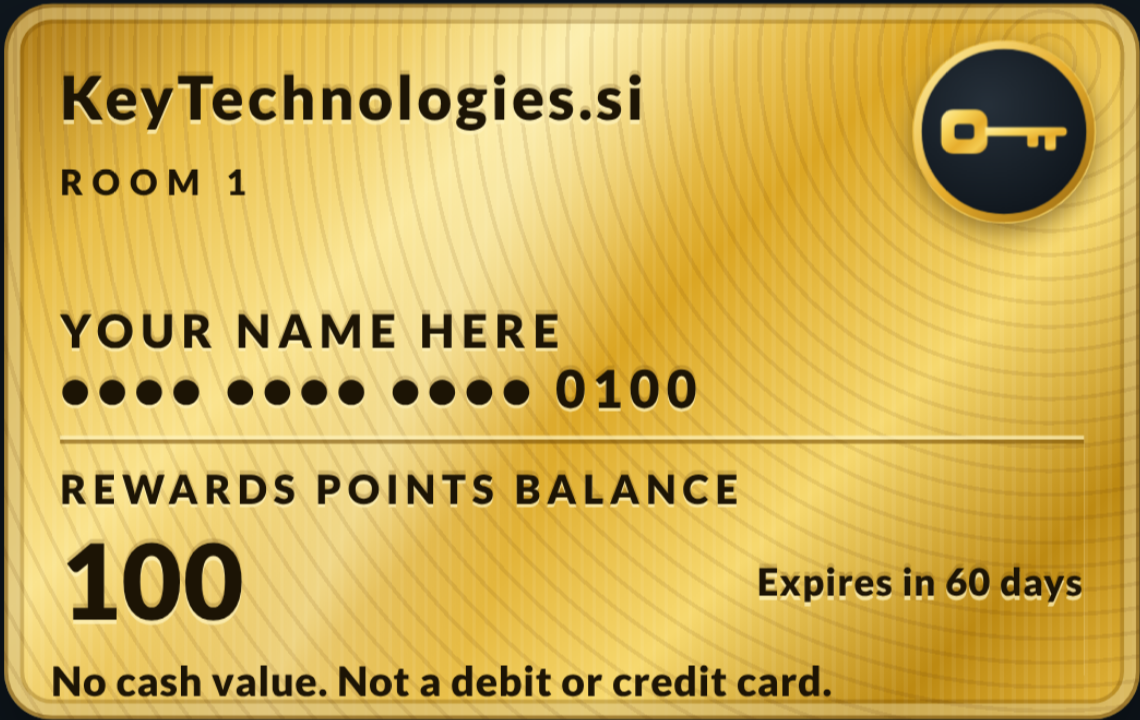
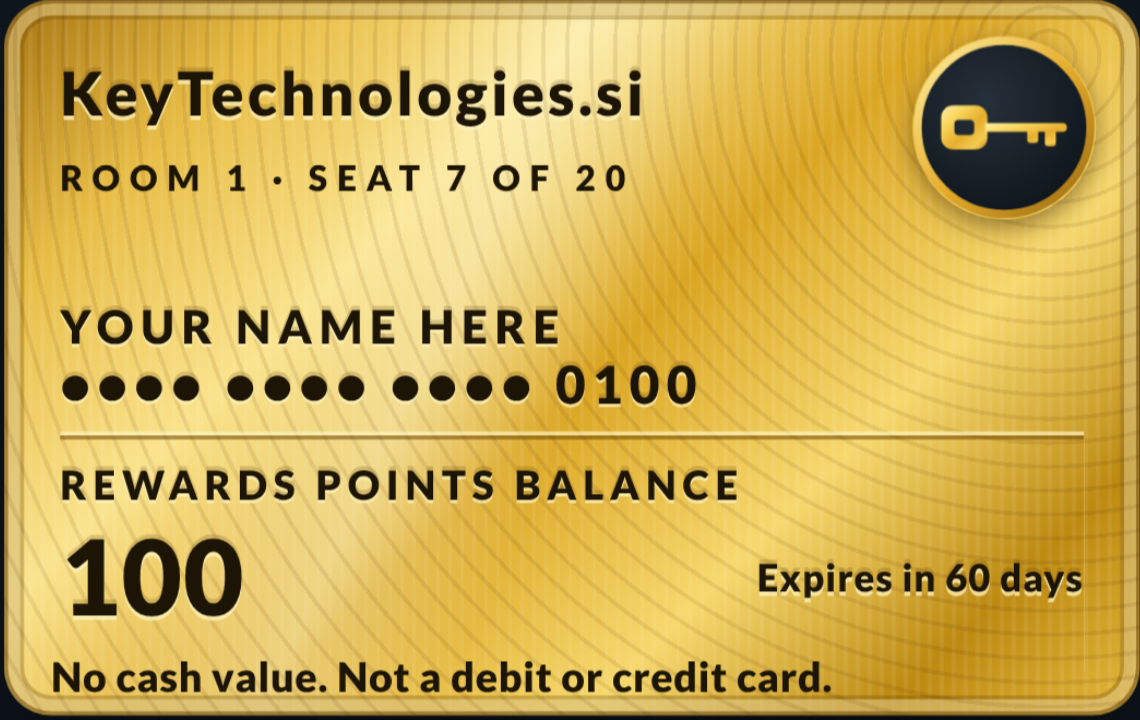
Card shows room and seat: Room N, Seat S of 20
Claude-Session: https://claude.ai/code/session_01C24s48QBeAMLS2iDpVHsTf

diff --git a/sites/key-technologies/key-rules.html b/sites/key-technologies/key-rules.html
@@ -26,13 +26,13 @@ h1{margin:0 0 8px;text-align:center;font-size:36px;line-height:1.12;font-weight:
 @media print{body{background:#fff;color:#000}.rule{background:#fff;border:1px solid #999;break-inside:avoid}.rule .n{background:#000;color:#fff}.btn,.brand{display:none}}
 </style>
 <script src="key-platform/kg-track.js"></script>
-<meta property="og:type" content="website"><meta property="og:site_name" content="Key Rewards"><meta property="og:title" content="The Rule Book | Key Rewards"><meta property="og:description" content="All the Key Rewards rules in one place, simple and numbered."><meta property="og:image" content="https://keytechnologies.si/brand/key-rewards-og.png"><meta property="og:image:width" content="1200"><meta property="og:image:height" content="630"><meta name="twitter:card" content="summary_large_image"><meta name="twitter:image" content="https://keytechnologies.si/brand/key-rewards-og.png"></head>
+</head>
 <body>
 <main class="wrap">
 <p class="brand">KeyTechnologies.si</p>
 <h1>The Rule Book</h1>
 <p class="lead">This is the game and this is how it flows. The rules are simple. This is all new to us too, so the rules can change at any time.</p>
-<section class="rule"><div class="n">1</div><div><h2>Who this is for</h2><p>Right now Key Rewards is for people who live in Las Vegas and have an Instagram account. We verify every member on Instagram before we give out keys. We are starting in Las Vegas, and we plan to open it up worldwide soon.</p></div></section><section class="rule"><div class="n">2</div><div><h2>The rooms</h2><p>There is Room 1, Room 2, Room 3, and so on, with no end. Every room holds exactly 20 people, no matter how many rooms there are. If you hear there are 80 rooms, that is 80 times 20, which is 1,600 people. Rooms only use numbers.</p></div></section><section class="rule"><div class="n">3</div><div><h2>Room 1</h2><p>Room 1 is the first 20 people. Everyone who already holds keys is in Room 1. 5 seats are taken, so 15 more seats are left.</p></div></section><section class="rule"><div class="n">4</div><div><h2>The keys</h2><p>The game starts with 10 million keys. The game is set up so more keys can be created, but right now we do not plan to. We will take a community vote and see where it goes. Votes are advisory. I am not keeping any of the starting keys for myself.</p></div></section><section class="rule"><div class="n">5</div><div><h2>How the keys flow</h2><p>I give Room 1 keys. Each person in Room 1 can choose to send a percentage of their wallet to Room 2, and it is shared evenly among everyone in Room 2. Each person in Room 2 can do the same for Room 3, Room 3 for Room 4, and so on. You choose the percentage, and you do not have to send any. When you open your wallet, it tells you which room you are in. I can also give keys directly to any room at any time. As keys are used, I give more keys to Room 1.</p></div></section><section class="rule"><div class="n">6</div><div><h2>Using your keys</h2><p>You can use your keys at any time: restaurants, gift cards, trading, experiences and more. Using them will not move you out of a room. It can move you up to a higher room. The more keys you use, the higher the rooms you can reach. If you are active, you move up. If you are not active, you move down.</p></div></section><section class="rule"><div class="n">7</div><div><h2>Moving rooms</h2><p>We can move you to any other room, whenever we want and for any reason. As more people enter, people are moved to other rooms. If you get moved, take it as a good thing: it means the community is getting bigger and stronger. Please do not take offense.</p></div></section><section class="rule"><div class="n">8</div><div><h2>Keys expire</h2><p>Keys are time sensitive. They are good for 60 days from the day they are issued, and keys you do not use disappear. A gift card for a friend or family member is good for 14 days. If you give keys to someone, they keep the same expiry date.</p></div></section><section class="rule"><div class="n">9</div><div><h2>Meeting up is optional</h2><p>You do not have to meet anyone to be part of Key Rewards or to use your keys at restaurants. If you want to, two people can meet in person and scan each other&rsquo;s one-time code. The code changes every time and works once. You both earn keys: 20 each for your first meet-up. You can only earn from meeting the same person once.</p></div></section><section class="rule"><div class="n">10</div><div><h2>Trading and giving</h2><p>Key Rewards is a game of trust: people trust each other, build relationships and make friendships, and the keys bring everybody together. Trading and giving keys to friends and family is optional. Only trade with people you trust. Never send or accept keys for money. We do not buy or sell keys, we never take cash, and we have no control over what members do between themselves.</p></div></section><section class="rule"><div class="n">11</div><div><h2>The marketplace</h2><p>Members can list their stuff, buy stuff and trade stuff. Think of it as a bartering system, paid in keys. Only members who hold keys can post on the marketplace. Post what you like and keep it clean. Anyone who posts something bad can be banned and lose all their keys. We may give keys for posting.</p></div></section><section class="rule"><div class="n">12</div><div><h2>Votes and ideas</h2><p>Keys can be used to vote on community ideas. Members with more keys get more votes, including me. Votes are advisory. Send us your ideas and comments. We read every one.</p></div></section><section class="rule"><div class="n">13</div><div><h2>Giveaways</h2><p>We are doing big giveaways. Our goal is to give away houses, cars and cash. These are goals, not promises yet. When we give away real prizes, the winners are picked with random number generator software, so it is fair.</p></div></section><section class="rule"><div class="n">14</div><div><h2>Your information</h2><p>We send you email updates and text messages about your keys. Reply STOP to a text or tap unsubscribe in an email and we stop. We use your address to confirm you live in Las Vegas. We never sell your data, and we keep it private and protected.</p></div></section><section class="rule"><div class="n">15</div><div><h2>Scam warning</h2><p>We will never ask you for money, cash, credit cards or any payment. Never. If anyone contacts you asking for money, it is a scam.</p></div></section><section class="rule"><div class="n">16</div><div><h2>The game can change</h2><p>This is a game, and it is all new to us too. We can change the rules at any time. We can change the game at any time. We can take keys away, ban anyone, move anyone and close the game at any time, for any reason. We will do our best to keep it going and build it out for the community.</p></div></section><section class="rule"><div class="n">17</div><div><h2>Who built it</h2><p>I built this software for the community, after 10 years of dedication to this channel. Key Technologies built the software and is not responsible for how keys are used by members or in the future. Keys have no cash value. Keys are not shares, ownership or an investment. This is not sponsored or run by Instagram.</p></div></section>
+<section class="rule"><div class="n">1</div><div><h2>Who this is for</h2><p>Right now Key Rewards is for people who live in Las Vegas and have an Instagram account. We verify every member on Instagram before we give out keys. We are starting in Las Vegas, and we plan to open it up worldwide soon.</p></div></section><section class="rule"><div class="n">2</div><div><h2>The rooms</h2><p>There is Room 1, Room 2, Room 3, and so on, with no end. Every room holds exactly 20 people, no matter how many rooms there are. Your wallet card shows your room and your seat, for example Room 15, Seat 20 of 20. If you hear there are 80 rooms, that is 80 times 20, which is 1,600 people. Rooms only use numbers.</p></div></section><section class="rule"><div class="n">3</div><div><h2>Room 1</h2><p>Room 1 is the first 20 people. Everyone who already holds keys is in Room 1. 5 seats are taken, so 15 more seats are left.</p></div></section><section class="rule"><div class="n">4</div><div><h2>The keys</h2><p>The game starts with 10 million keys. The game is set up so more keys can be created, but right now we do not plan to. We will take a community vote and see where it goes. Votes are advisory. I am not keeping any of the starting keys for myself.</p></div></section><section class="rule"><div class="n">5</div><div><h2>How the keys flow</h2><p>I give Room 1 keys. Each person in Room 1 can choose to send a percentage of their wallet to Room 2, and it is shared evenly among everyone in Room 2. Each person in Room 2 can do the same for Room 3, Room 3 for Room 4, and so on. You choose the percentage, and you do not have to send any. When you open your wallet, it tells you which room you are in. I can also give keys directly to any room at any time. As keys are used, I give more keys to Room 1.</p></div></section><section class="rule"><div class="n">6</div><div><h2>Using your keys</h2><p>You can use your keys at any time: restaurants, gift cards, trading, experiences and more. Using them will not move you out of a room. It can move you up to a higher room. The more keys you use, the higher the rooms you can reach. If you are active, you move up. If you are not active, you move down.</p></div></section><section class="rule"><div class="n">7</div><div><h2>Moving rooms</h2><p>We can move you to any other room, whenever we want and for any reason. As more people enter, people are moved to other rooms. If you get moved, take it as a good thing: it means the community is getting bigger and stronger. Please do not take offense.</p></div></section><section class="rule"><div class="n">8</div><div><h2>Keys expire</h2><p>Keys are time sensitive. They are good for 60 days from the day they are issued, and keys you do not use disappear. A gift card for a friend or family member is good for 14 days. If you give keys to someone, they keep the same expiry date.</p></div></section><section class="rule"><div class="n">9</div><div><h2>Meeting up is optional</h2><p>You do not have to meet anyone to be part of Key Rewards or to use your keys at restaurants. If you want to, two people can meet in person and scan each other&rsquo;s one-time code. The code changes every time and works once. You both earn keys: 20 each for your first meet-up. You can only earn from meeting the same person once.</p></div></section><section class="rule"><div class="n">10</div><div><h2>Trading and giving</h2><p>Key Rewards is a game of trust: people trust each other, build relationships and make friendships, and the keys bring everybody together. Trading and giving keys to friends and family is optional. Only trade with people you trust. Never send or accept keys for money. We do not buy or sell keys, we never take cash, and we have no control over what members do between themselves.</p></div></section><section class="rule"><div class="n">11</div><div><h2>The marketplace</h2><p>Members can list their stuff, buy stuff and trade stuff. Think of it as a bartering system, paid in keys. Only members who hold keys can post on the marketplace. Post what you like and keep it clean. Anyone who posts something bad can be banned and lose all their keys. We may give keys for posting.</p></div></section><section class="rule"><div class="n">12</div><div><h2>Votes and ideas</h2><p>Keys can be used to vote on community ideas. Members with more keys get more votes, including me. Votes are advisory. Send us your ideas and comments. We read every one.</p></div></section><section class="rule"><div class="n">13</div><div><h2>Giveaways</h2><p>We are doing big giveaways. Our goal is to give away houses, cars and cash. These are goals, not promises yet. When we give away real prizes, the winners are picked with random number generator software, so it is fair.</p></div></section><section class="rule"><div class="n">14</div><div><h2>Your information</h2><p>We send you email updates and text messages about your keys. Reply STOP to a text or tap unsubscribe in an email and we stop. We use your address to confirm you live in Las Vegas. We never sell your data, and we keep it private and protected.</p></div></section><section class="rule"><div class="n">15</div><div><h2>Scam warning</h2><p>We will never ask you for money, cash, credit cards or any payment. Never. If anyone contacts you asking for money, it is a scam.</p></div></section><section class="rule"><div class="n">16</div><div><h2>The game can change</h2><p>This is a game, and it is all new to us too. We can change the rules at any time. We can change the game at any time. We can take keys away, ban anyone, move anyone and close the game at any time, for any reason. We will do our best to keep it going and build it out for the community.</p></div></section><section class="rule"><div class="n">17</div><div><h2>Who built it</h2><p>I built this software for the community, after 10 years of dedication to this channel. Key Technologies built the software and is not responsible for how keys are used by members or in the future. Keys have no cash value. Keys are not shares, ownership or an investment. This is not sponsored or run by Instagram.</p></div></section>
 <a class="btn" href="key-waitlist.html" id="join">Join the waiting list</a>
 <a class="btn o" href="key-ideas.html">Share an idea</a>
 <p class="foot">From the team behind Las Vegas Restaurants. Updated November 23, 2026.</p>

diff --git a/sites/key-technologies/key-tour.html b/sites/key-technologies/key-tour.html
@@ -34,7 +34,7 @@ p{margin:0;font-size:21px;line-height:1.45}.sm{font-size:19px;color:rgba(255,255
 <body>
 <div class="top"><b>KeyTechnologies.si</b><a href="key-waitlist.html" id="skip">Skip to join</a></div>
 <main class="rail" id="rail"><section class="sl" id="s1" aria-label="Screen 1 of 11"><img class='key' src='brand/key-gold.svg' alt='A gold key'><h1>Free keys for <span class='b'>Las Vegas locals</span></h1><p>Our thank-you for 10 years of Las Vegas Restaurants. We are starting in Las Vegas and plan to open it worldwide soon. Swipe to see how it works.</p></section><section class="sl" id="s2" aria-label="Screen 2 of 11"><h2>What keys <span class="b">are for</span></h2><div class="uses c"></div></section><section class="sl" id="sm" aria-label="Screen 3 of 11"><h2>The key <span class="b">marketplace</span></h2><p>List your stuff. Buy stuff. Trade stuff. Think of it as a <b>bartering system</b>, paid in keys.</p><div class="tl t3"><div class="t"><svg viewBox="0 0 24 24" width="44" height="44" fill="none" stroke="#00a8e1" stroke-width="1.6" stroke-linecap="round" stroke-linejoin="round" aria-hidden="true"><path d="M12.586 2.586A2 2 0 0 0 11.172 2H4a2 2 0 0 0-2 2v7.172a2 2 0 0 0 .586 1.414l8.704 8.704a2.426 2.426 0 0 0 3.42 0l6.58-6.58a2.426 2.426 0 0 0 0-3.42z"/><circle cx="7.5" cy="7.5" r=".5" fill="currentColor"/></svg><b>List</b></div><div class="t"><svg viewBox="0 0 24 24" width="44" height="44" fill="none" stroke="#00a8e1" stroke-width="1.6" stroke-linecap="round" stroke-linejoin="round" aria-hidden="true"><path d="M6 2 3 6v14a2 2 0 0 0 2 2h14a2 2 0 0 0 2-2V6l-3-4Z"/><path d="M3 6h18"/><path d="M16 10a4 4 0 0 1-8 0"/></svg><b>Buy</b></div><div class="t"><svg viewBox="0 0 24 24" width="44" height="44" fill="none" stroke="#00a8e1" stroke-width="1.6" stroke-linecap="round" stroke-linejoin="round" aria-hidden="true"><path d="m16 3 4 4-4 4"/><path d="M20 7H4"/><path d="m8 21-4-4 4-4"/><path d="M4 17h16"/></svg><b>Trade</b></div></div><p class="sm">Only members who hold keys can post. Keep it clean. We do not buy or sell keys and we never take cash. We are still building it out.</p></section><section class="sl" id="s3" aria-label="Screen 4 of 11"><h2>Want to meet up? <span class="b">Optional.</span></h2><p><b>You do not have to meet anyone</b> to be part of Key Rewards or to use your keys at restaurants.</p><p>If you want to, two people can meet in person and scan each other&rsquo;s code. It changes every time and works once, so it proves you were face to face, and you both earn keys. First meet-up: <b>20 keys each</b>.</p><div class="ic"><svg viewBox="0 0 24 24" width="64" height="64" fill="none" stroke="#00a8e1" stroke-width="1.6" stroke-linecap="round" stroke-linejoin="round" aria-hidden="true"><path d="M16 21v-2a4 4 0 0 0-4-4H6a4 4 0 0 0-4 4v2"/><circle cx="9" cy="7" r="4"/><path d="M22 21v-2a4 4 0 0 0-3-3.87"/><path d="M16 3.13a4 4 0 0 1 0 7.75"/></svg></div><p class="sm">You can also network on Instagram, or just use your keys.</p>
-</section><section class="sl" id="st" aria-label="Screen 5 of 11"><h2>A game of <span class="b">trust</span></h2><div class="tl t3"><div class="t"><svg viewBox="0 0 24 24" width="44" height="44" fill="none" stroke="#00a8e1" stroke-width="1.6" stroke-linecap="round" stroke-linejoin="round" aria-hidden="true"><path d="M16 21v-2a4 4 0 0 0-4-4H6a4 4 0 0 0-4 4v2"/><circle cx="9" cy="7" r="4"/><path d="M22 21v-2a4 4 0 0 0-3-3.87"/><path d="M16 3.13a4 4 0 0 1 0 7.75"/></svg><b>Trust</b></div><div class="t"><svg viewBox="0 0 24 24" width="44" height="44" fill="none" stroke="#00a8e1" stroke-width="1.6" stroke-linecap="round" stroke-linejoin="round" aria-hidden="true"><path d="M7.9 20A9 9 0 1 0 4 16.1L2 22Z"/></svg><b>Bonds</b></div><div class="t"><svg viewBox="0 0 24 24" width="44" height="44" fill="none" stroke="#00a8e1" stroke-width="1.6" stroke-linecap="round" stroke-linejoin="round" aria-hidden="true"><path d="M19 14c1.49-1.46 3-3.21 3-5.5A5.5 5.5 0 0 0 16.5 3c-1.76 0-3 .5-4.5 2-1.5-1.5-2.74-2-4.5-2A5.5 5.5 0 0 0 2 8.5c0 2.3 1.5 4.05 3 5.5l7 7Z"/></svg><b>Friends</b></div></div><p>Keys bring everybody together. People trust each other, build relationships and make friends.</p><p class="sm">Only trade with people you trust. Meeting up is optional.</p></section><section class="sl" id="s4" aria-label="Screen 6 of 11"><h2>How it <span class='b'>spreads</span></h2><div class="hall c"></div><p><b>Room 1</b> is 20 Las Vegas locals with Instagram, verified by us. 5 seats are taken, 15 are left. <b>The first 20 will have to trust each other.</b></p><p class="sm">80 rooms = 80 &times; 20 = 1,600 people. We can move you to another room any time. Being moved is a good thing.</p></section><section class="sl" id="s5" aria-label="Screen 7 of 11"><h2>How the <span class="b">keys flow</span></h2><div class="chain"><span>10M</span><i>&rarr;</i><span>Room 1</span><i>&rarr;</i><span>2</span><i>&rarr;</i><span>3</span><i>&rarr;</i><span>&hellip;</span></div><p><b>10 million keys</b> at the top. I give Room 1 keys. <b>People in Room 1 can send a percentage of their wallet to Room 2,</b> shared evenly. Room 2 can do the same for Room 3, and so on. Your wallet shows which room you are in.</p><p class="sm">You choose the percentage. I can also give keys directly to any room any time. Everyone who already holds keys is in Room 1: 5 seats are taken, 15 are left.</p></section><section class="sl" id="s6" aria-label="Screen 8 of 11"><h2>Use keys, <span class="b">move up</span></h2><p>You can use your keys any time. <b>Using them will not move you out of a room.</b> It can move you <b>up</b> to a higher room.</p><p><b>Active? You move up. Not active? You move down.</b></p><p class="sm">We can move you to another room any time, for any reason, and being moved is a good thing. More keys can be created, but we do not plan to. We will take a community vote.</p></section><section class="sl" id="s7" aria-label="Screen 9 of 11"><h2>Your <span class='b'>wallet</span></h2><img class='card' src='brand/wallet-demo-card.png' alt='A sample wallet card showing 100 keys'><p class='sm'>A sample. Put your name on it.</p><p>No username. No password. No app to download. Check it often: we will be running giveaways inside it, like free spins to win more keys.</p></section><section class="sl" id="s8" aria-label="Screen 10 of 11"><h2>Please <span class='b'>read everything</span></h2><p>Only join if you understand what we are doing and you plan to use keys or share them. Meeting up is optional.</p><p>The first 20 must live in Las Vegas and have an Instagram account. We verify everyone.</p><p class='sm'>Keys expire after 60 days, even if you give them away. We do not buy or sell keys. We will never ask you for money or credit cards. If anyone does, it is a scam.</p></section><section class="sl" id="s9" aria-label="Screen 11 of 11"><h2>Ready?</h2><p>It takes about 30 seconds.</p><a class='go' id='join' href='key-waitlist.html'>Join the waiting list</a><a class='go o' href='key-rules.html' id='rules'>Read the Rule Book</a><a class='go o' href='key-what-you-get.html' id='more'>Read the full details</a><a class='go o' href='key-ideas.html' id='idea'>Share an idea</a></section></main>
+</section><section class="sl" id="st" aria-label="Screen 5 of 11"><h2>A game of <span class="b">trust</span></h2><div class="tl t3"><div class="t"><svg viewBox="0 0 24 24" width="44" height="44" fill="none" stroke="#00a8e1" stroke-width="1.6" stroke-linecap="round" stroke-linejoin="round" aria-hidden="true"><path d="M16 21v-2a4 4 0 0 0-4-4H6a4 4 0 0 0-4 4v2"/><circle cx="9" cy="7" r="4"/><path d="M22 21v-2a4 4 0 0 0-3-3.87"/><path d="M16 3.13a4 4 0 0 1 0 7.75"/></svg><b>Trust</b></div><div class="t"><svg viewBox="0 0 24 24" width="44" height="44" fill="none" stroke="#00a8e1" stroke-width="1.6" stroke-linecap="round" stroke-linejoin="round" aria-hidden="true"><path d="M7.9 20A9 9 0 1 0 4 16.1L2 22Z"/></svg><b>Bonds</b></div><div class="t"><svg viewBox="0 0 24 24" width="44" height="44" fill="none" stroke="#00a8e1" stroke-width="1.6" stroke-linecap="round" stroke-linejoin="round" aria-hidden="true"><path d="M19 14c1.49-1.46 3-3.21 3-5.5A5.5 5.5 0 0 0 16.5 3c-1.76 0-3 .5-4.5 2-1.5-1.5-2.74-2-4.5-2A5.5 5.5 0 0 0 2 8.5c0 2.3 1.5 4.05 3 5.5l7 7Z"/></svg><b>Friends</b></div></div><p>Keys bring everybody together. People trust each other, build relationships and make friends.</p><p class="sm">Only trade with people you trust. Meeting up is optional.</p></section><section class="sl" id="s4" aria-label="Screen 6 of 11"><h2>How it <span class='b'>spreads</span></h2><div class="hall c"></div><p><b>Room 1</b> is 20 Las Vegas locals with Instagram, verified by us. 5 seats are taken, 15 are left. <b>The first 20 will have to trust each other.</b></p><p class="sm">80 rooms = 80 &times; 20 = 1,600 people. We can move you to another room any time. Being moved is a good thing.</p></section><section class="sl" id="s5" aria-label="Screen 7 of 11"><h2>How the <span class="b">keys flow</span></h2><div class="chain"><span>10M</span><i>&rarr;</i><span>Room 1</span><i>&rarr;</i><span>2</span><i>&rarr;</i><span>3</span><i>&rarr;</i><span>&hellip;</span></div><p><b>10 million keys</b> at the top. I give Room 1 keys. <b>People in Room 1 can send a percentage of their wallet to Room 2,</b> shared evenly. Room 2 can do the same for Room 3, and so on. Your wallet shows which room you are in.</p><p class="sm">You choose the percentage. I can also give keys directly to any room any time. Everyone who already holds keys is in Room 1: 5 seats are taken, 15 are left.</p></section><section class="sl" id="s6" aria-label="Screen 8 of 11"><h2>Use keys, <span class="b">move up</span></h2><p>You can use your keys any time. <b>Using them will not move you out of a room.</b> It can move you <b>up</b> to a higher room.</p><p><b>Active? You move up. Not active? You move down.</b></p><p class="sm">We can move you to another room any time, for any reason, and being moved is a good thing. More keys can be created, but we do not plan to. We will take a community vote.</p></section><section class="sl" id="s7" aria-label="Screen 9 of 11"><h2>Your <span class='b'>wallet</span></h2><img class='card' src='brand/wallet-demo-card.png' alt='A sample wallet card showing 100 keys'><p class='sm'>A sample. It shows your room and your seat, out of 20 in each room.</p><p>No username. No password. No app to download. Check it often: we will be running giveaways inside it, like free spins to win more keys.</p></section><section class="sl" id="s8" aria-label="Screen 10 of 11"><h2>Please <span class='b'>read everything</span></h2><p>Only join if you understand what we are doing and you plan to use keys or share them. Meeting up is optional.</p><p>The first 20 must live in Las Vegas and have an Instagram account. We verify everyone.</p><p class='sm'>Keys expire after 60 days, even if you give them away. We do not buy or sell keys. We will never ask you for money or credit cards. If anyone does, it is a scam.</p></section><section class="sl" id="s9" aria-label="Screen 11 of 11"><h2>Ready?</h2><p>It takes about 30 seconds.</p><a class='go' id='join' href='key-waitlist.html'>Join the waiting list</a><a class='go o' href='key-rules.html' id='rules'>Read the Rule Book</a><a class='go o' href='key-what-you-get.html' id='more'>Read the full details</a><a class='go o' href='key-ideas.html' id='idea'>Share an idea</a></section></main>
 <button class="arr l" id="pv" type="button" aria-label="Previous screen">&lsaquo;</button><button class="arr r" id="nx" type="button" aria-label="Next screen">&rsaquo;</button>
 <div class="hint" id="hint">Swipe &rarr; or wait. It plays on its own.</div>
 <nav class="dots" id="dots" aria-label="Screens"></nav>

diff --git a/sites/key-technologies/restaurant-rewards-treasury.html b/sites/key-technologies/restaurant-rewards-treasury.html
@@ -461,7 +461,7 @@ body.hlock{overflow:hidden}
  function atT(x){return (!DBM&&x&&x.at)?Date.parse(x.at):now()}
  function fresh(){var t=DBM?now():BASE_AT;return {v:1,wallets:[{id:'treasury',name:'Key Rewards Treasury',type:'Shane\'s wallet',t:t}],entries:[{id:1,t:t,from:null,to:'treasury',amt:SUPPLY,note:'Opening balance'}],next:2,nextW:1}}
  function load(){try{var j=localStorage.getItem(KEY);if(j){var o=JSON.parse(j);if(o&&o.v===1&&o.wallets&&o.entries)return o}}catch(e){canSave=false}return fresh()}
- var ROOMSIZE=20;function roomOf(r){return Math.max(1,Math.ceil((r||1)/ROOMSIZE))}
+ var ROOMSIZE=20;function roomOf(r){return Math.max(1,Math.ceil((r||1)/ROOMSIZE))}function seatOf(r){return ((Math.max(1,r||1)-1)%ROOMSIZE)+1}
  function nextRank(){var m=0;S.wallets.forEach(function(w){if(w.id!=='treasury'&&(w.rank||0)>m)m=w.rank});return m+1}
  function openW(name,type,t0){var id='w'+(S.nextW++),t=t0||now();S.wallets.push({id:id,name:name,type:type,t:t,rank:nextRank()});S.entries.push({id:S.next++,t:t,from:null,to:id,amt:0,kind:'open',note:'Wallet opened with a zero balance'});return id}
  /* Instructions from Shane, applied once per browser when the page opens (so every browser shows the same starting position). */
@@ -569,7 +569,7 @@ body.hlock{overflow:hidden}
  /* A 16-digit card number for every wallet and gift card: it starts with 9 (no bank uses 9, so it can never be mistaken for a Visa, Mastercard or other bank card) and ends with 5683 (L-O-V-E on a phone keypad: L=5, O=6, V=8, E=3). The 10 digits after the 9 come from the wallet's own number (w12 -> 12) through a one-to-one scramble, so it looks random, never changes, and TWO WALLETS CAN NEVER GET THE SAME NUMBER. One more digit (just before 5683) is chosen on purpose so the number FAILS the bank-card (Luhn) check and can never be a real card number. */
  function cardNo(w){if(w.id==='treasury')return '7777 7777 7777 7777'; /* the Treasury card is all sevens; it deliberately fails the bank-card checksum, like every other number here */ var m=/\d+/.exec(String(w.id)),idx=BigInt(m?m[0]:'0'),M=10000000000n,n=(idx*6123456789n+2718281828n)%M,dg=('9'+String(n).padStart(10,'0')+'0'+'5683').split('').map(Number),sum=0;for(var i=dg.length-1,k=0;i>=0;i--,k++){if(i===11)continue;var v=dg[i];if(k%2===1){v*=2;if(v>9)v-=9}sum+=v}var x=0;for(;x<10;x++){var f=x*2>9?x*2-9:x*2;if((sum+f)%10===0)break}dg[11]=(x+1)%10;return dg.join('').replace(/(\d{4})(?=\d)/g,'$1 ')}
  function numFor(w){return cardNo(w)}
- function gcard(w,sm,btn){var g=document.createElement('div');g.className='gc'+(sm?' sm':'');var d=function(c,t){var e=document.createElement('div');e.className=c;if(t!=null)e.textContent=t;return e};g.appendChild(d('brand','KeyTechnologies.si'));g.appendChild(d('brand2',(w.id!=='treasury'&&w.rank)?'Room '+roomOf(w.rank):'Rewards points'));var L=(S.logos&&S.logos[w.id])||[];if(L.length){var lg=d('lgs');L.forEach(function(u){var im=document.createElement('img');im.src=u;im.alt='';lg.appendChild(im)});g.appendChild(lg)}var nmT=w.id==='treasury'?'Treasury':w.name,nmE=d('nm',nmT);var cr=d('crow');var xi=expInfo(w.id);cr.appendChild(rrLock());g.appendChild(cr);g.appendChild(nmE);g.appendChild(d('num',numFor(w)));var bb=d('bal');var sm2=document.createElement('small');sm2.innerHTML='Rewards <span class="pt">points </span>balance';if(!btn&&xi&&xi.tabs.length>1){sm2.textContent=xi.tabs.length+' tabs \u203a';sm2.className='tabsl';sm2.setAttribute('role','button');sm2.setAttribute('tabindex','0');sm2.setAttribute('aria-label',xi.tabs.length+' tabs, each with its own countdown. Tap to see them.');var otb=function(ev){ev.stopPropagation();ev.preventDefault();openTabs(w.id)};sm2.addEventListener('click',otb);sm2.addEventListener('keydown',function(ev){if(ev.key==='Enter'||ev.key===' ')otb(ev)})}var b2=document.createElement('b');b2.textContent=fmt(shown(w.id));var bl=d('bl');bl.appendChild(sm2);bl.appendChild(b2);bb.appendChild(bl);var rt=d('rt');if(xi)rt.appendChild(cdEl(xi));bb.appendChild(rt);g.appendChild(bb);g.appendChild(d('fineprint','No cash value. Not a debit or credit card.'));if(btn){var w2=document.createElement('button');w2.type='button';w2.className='gcb';w2.appendChild(g);return w2}return g}
+ function gcard(w,sm,btn){var g=document.createElement('div');g.className='gc'+(sm?' sm':'');var d=function(c,t){var e=document.createElement('div');e.className=c;if(t!=null)e.textContent=t;return e};g.appendChild(d('brand','KeyTechnologies.si'));g.appendChild(d('brand2',(w.id!=='treasury'&&w.rank)?'Room '+roomOf(w.rank)+' \u00b7 Seat '+seatOf(w.rank)+' of '+ROOMSIZE:'Rewards points'));var L=(S.logos&&S.logos[w.id])||[];if(L.length){var lg=d('lgs');L.forEach(function(u){var im=document.createElement('img');im.src=u;im.alt='';lg.appendChild(im)});g.appendChild(lg)}var nmT=w.id==='treasury'?'Treasury':w.name,nmE=d('nm',nmT);var cr=d('crow');var xi=expInfo(w.id);cr.appendChild(rrLock());g.appendChild(cr);g.appendChild(nmE);g.appendChild(d('num',numFor(w)));var bb=d('bal');var sm2=document.createElement('small');sm2.innerHTML='Rewards <span class="pt">points </span>balance';if(!btn&&xi&&xi.tabs.length>1){sm2.textContent=xi.tabs.length+' tabs \u203a';sm2.className='tabsl';sm2.setAttribute('role','button');sm2.setAttribute('tabindex','0');sm2.setAttribute('aria-label',xi.tabs.length+' tabs, each with its own countdown. Tap to see them.');var otb=function(ev){ev.stopPropagation();ev.preventDefault();openTabs(w.id)};sm2.addEventListener('click',otb);sm2.addEventListener('keydown',function(ev){if(ev.key==='Enter'||ev.key===' ')otb(ev)})}var b2=document.createElement('b');b2.textContent=fmt(shown(w.id));var bl=d('bl');bl.appendChild(sm2);bl.appendChild(b2);bb.appendChild(bl);var rt=d('rt');if(xi)rt.appendChild(cdEl(xi));bb.appendChild(rt);g.appendChild(bb);g.appendChild(d('fineprint','No cash value. Not a debit or credit card.'));if(btn){var w2=document.createElement('button');w2.type='button';w2.className='gcb';w2.appendChild(g);return w2}return g}
  /* Back of the card: tap the card to flip it. Where it can be used and how to use it. */
  var RM=!!(window.matchMedia&&matchMedia('(prefers-reduced-motion: reduce)').matches);
  function countUp(b,to){var n=b&&b.firstChild;if(RM||!n||n.nodeType!==3)return;var t0=performance.now(),D=850;(function f(t){var k=Math.min(1,(t-t0)/D),e=1-Math.pow(1-k,3);n.nodeValue=fmt(Math.round(to*e));if(k<1)requestAnimationFrame(f)})(t0)}

diff --git a/docs/key-integration/NEXT_STEPS.md b/docs/key-integration/NEXT_STEPS.md
@@ -685,3 +685,5 @@ NEXT: real offers (members post their own, stored in the database with owner mod
 357. WALLET SCREEN: NO TITLE WORD (Shane, 2026-11-23): the "Wallet" heading above the card is removed; the screen is the card, a thin white X in the top right, and the buttons. Screen readers still hear "Wallet view" from the dialog label.
 
 358. WALLET BUTTONS MATCH THE HISTORY BOX (Shane, 2026-11-23): Redeem, Send a gift and the other wallet buttons use the same softly rounded corners (12 px) as the Wallet history / Gift card history box instead of the full pill shape.
+
+359. ROOM AND SEAT ON THE CARD (Shane, 2026-11-23): the wallet card now reads "ROOM 15 · SEAT 20 OF 20" (room = ceil(number / 20), seat = position inside the room; Thin Blue 702 = Room 1 · Seat 1 of 20). `seatOf()` next to `roomOf()` in restaurant-rewards-treasury.html. Sample card shows "Room 1 · Seat 7 of 20"; tour wallet screen and the Rule Book (rule 2) mention room and seat. The wallet number and the seat are two different things: the card number is unchanged.
